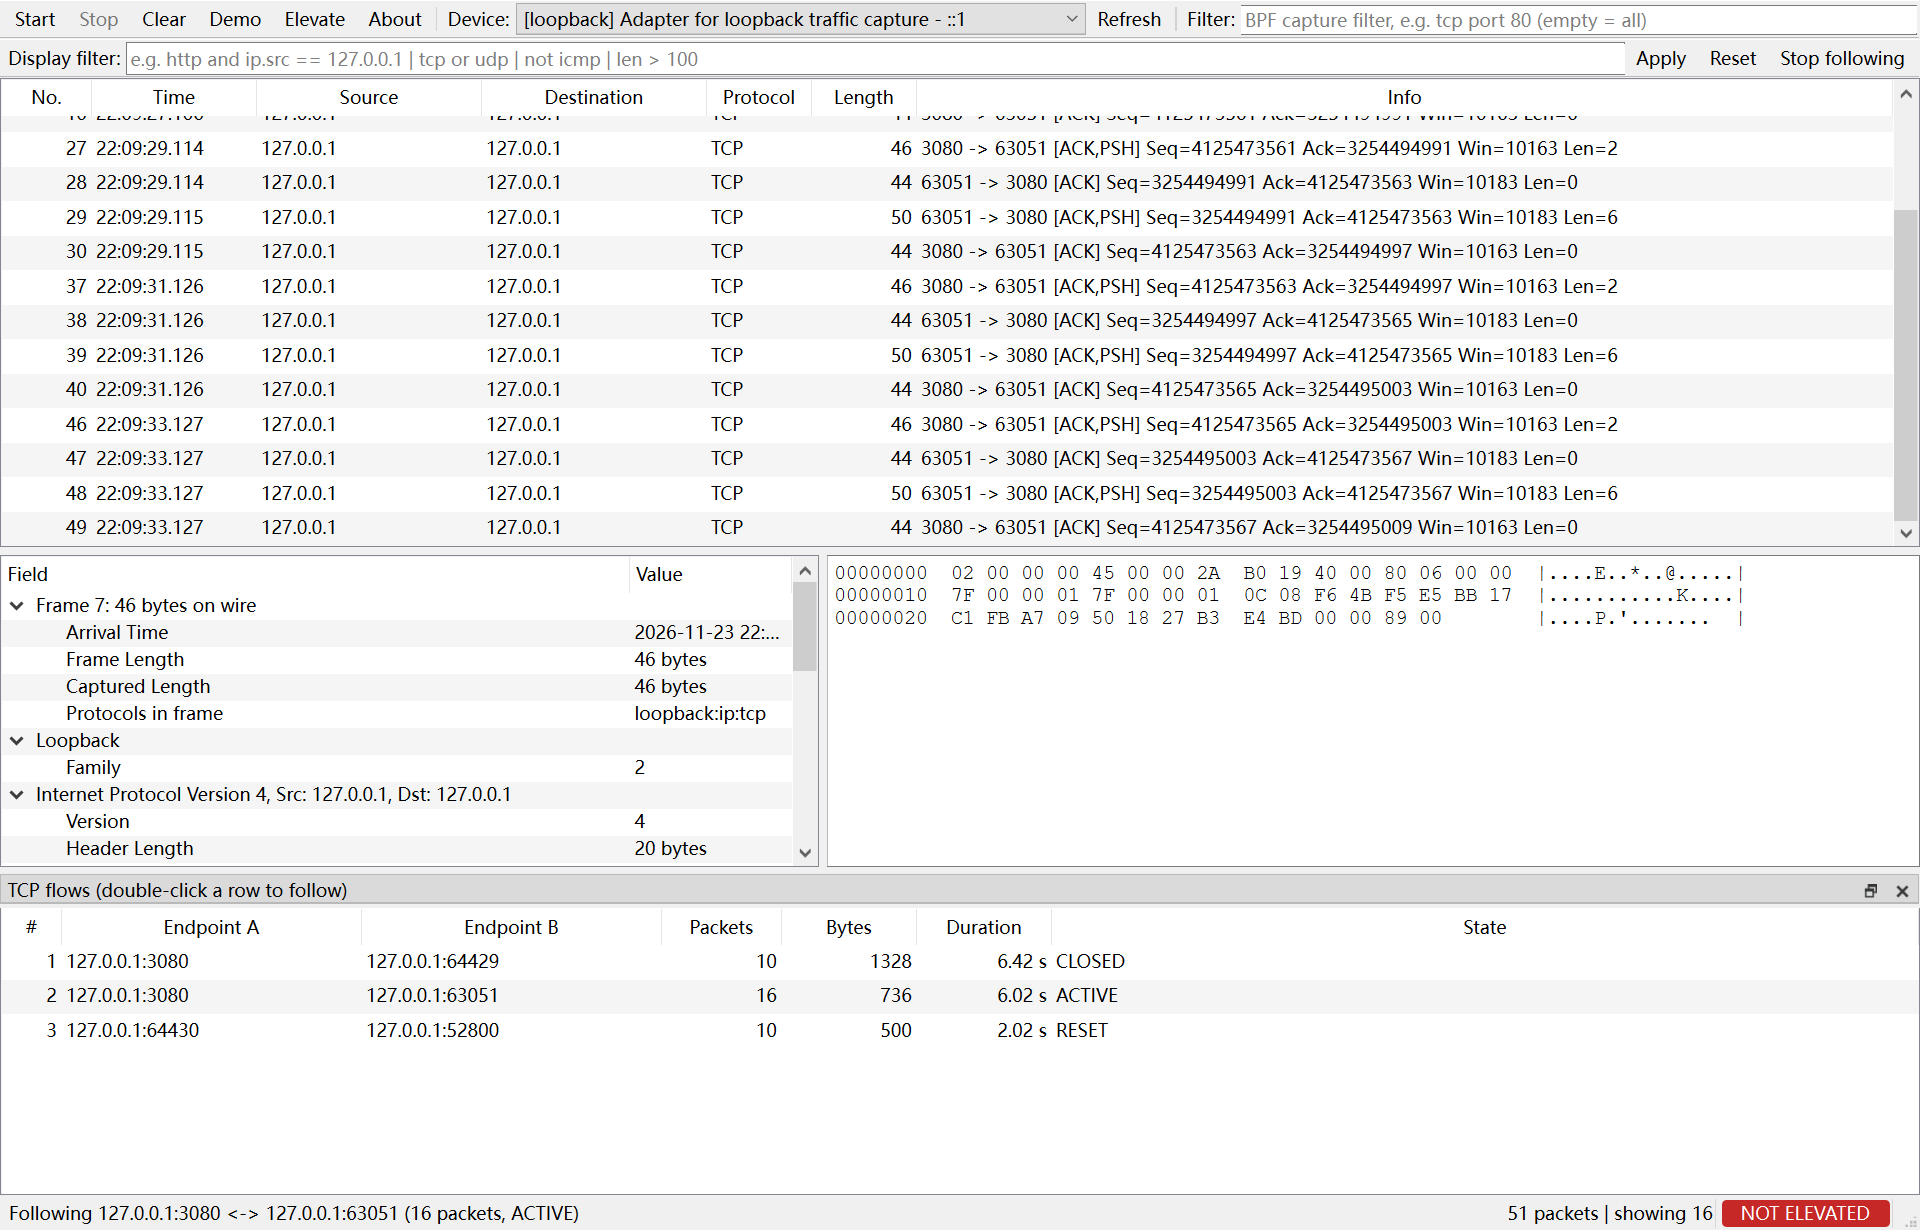
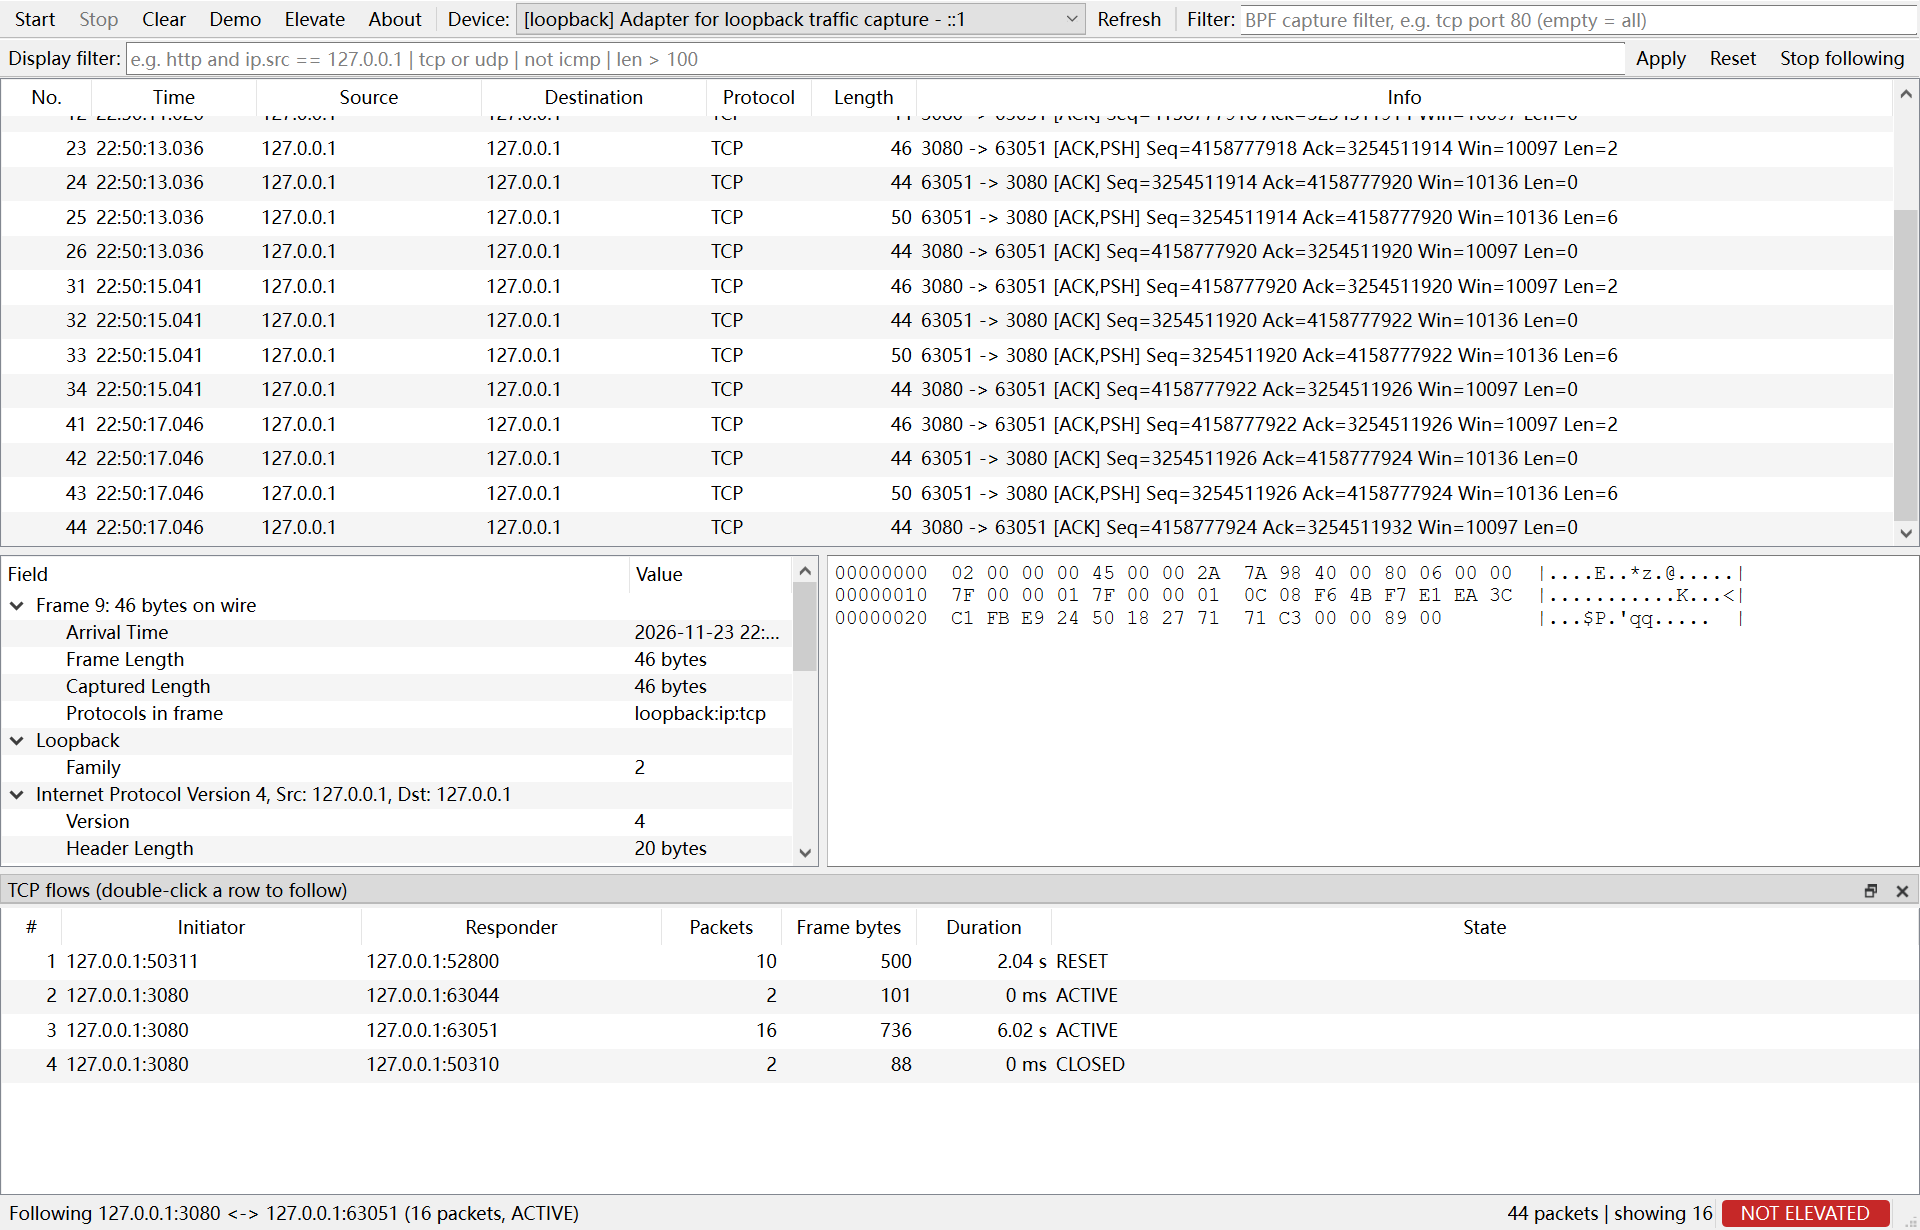
fix(flow): address review findings (stale filter, naming, key, reuse)
- loadDemoPackets() now goes through resetDataset(), which clears the flow
  filter: following a flow and then loading demo data used to leave the table
  empty (240 packets loaded, nothing visible)
- flow dock columns renamed to Initiator / Responder and Bytes to Frame bytes,
  matching what the cells actually show; the key's canonical A/B order is a
  different concept and stays internal
- TcpFlowKey normalises addresses to lower case once, so operator== and qHash
  stay exact; FE80::1 and fe80::1 can no longer split one connection in two
- a SYN without ACK clears sawFin/sawRst/sawSynAck: a reused 4-tuple starts a
  new session instead of being born CLOSED
- FlowTableModel inserts new flows incrementally instead of resetting, so the
  dock selection survives a running capture
- fromRecord() uses isValid(); MainWindow deletes the tracker in its destructor
- capture-test asserts that demo data is visible after following a flow
  (demo_rows/demo_visible) and snapshots capture counters before the swap
- tests: 7 new checks for port reuse, case folding and invalid endpoints

diff --git a/tests/protocol_tests.cpp b/tests/protocol_tests.cpp
@@ -330,6 +330,66 @@ void testMalformedIpv4()
     check(result.sourcePort == 0, QStringLiteral("IPv4 bad total length has no ports"));
 }
 
+void testFlowEdgeCases()
+{
+    auto makeTcp = [](quint64 index, const QString &source, quint16 sourcePort,
+                      const QString &destination, quint16 destinationPort,
+                      quint8 flags, int length) {
+        sss::model::PacketRecord record;
+        record.index = index;
+        record.source = source;
+        record.destination = destination;
+        record.sourcePort = sourcePort;
+        record.destinationPort = destinationPort;
+        record.ipProtocol = 6;
+        record.ipVersion = 4;
+        record.tcpFlags = flags;
+        record.length = length;
+        record.timestamp = QDateTime::currentDateTime();
+        return record;
+    };
+
+    // Port reuse: a new SYN on a closed 4-tuple starts a fresh session.
+    sss::flow::TcpFlowTracker reuse;
+    reuse.observe(makeTcp(1, QStringLiteral("127.0.0.1"), 50000,
+                          QStringLiteral("127.0.0.1"), 3080, 0x02, 60));
+    reuse.observe(makeTcp(2, QStringLiteral("127.0.0.1"), 50000,
+                          QStringLiteral("127.0.0.1"), 3080, 0x11, 60)); // FIN+ACK
+    check(reuse.flows().first().stateText() == QStringLiteral("CLOSED"),
+          QStringLiteral("flow: closed before reuse"));
+
+    reuse.observe(makeTcp(3, QStringLiteral("127.0.0.1"), 50000,
+                          QStringLiteral("127.0.0.1"), 3080, 0x02, 60)); // new SYN
+    check(reuse.flows().first().stateText() == QStringLiteral("SYN SENT"),
+          QStringLiteral("flow: port reuse starts a new session"));
+
+    reuse.observe(makeTcp(4, QStringLiteral("127.0.0.1"), 3080,
+                          QStringLiteral("127.0.0.1"), 50000, 0x12, 60)); // SYN+ACK
+    check(reuse.flows().first().stateText() == QStringLiteral("ESTABLISHED"),
+          QStringLiteral("flow: port reuse re-establishes"));
+
+    // IPv6 addresses may arrive with different case; one flow, not two.
+    sss::flow::TcpFlowTracker caseTracker;
+    caseTracker.observe(makeTcp(1, QStringLiteral("FE80::1"), 1234,
+                                QStringLiteral("FE80::2"), 80, 0x02, 60));
+    caseTracker.observe(makeTcp(2, QStringLiteral("fe80::2"), 80,
+                                QStringLiteral("fe80::1"), 1234, 0x12, 60));
+    check(caseTracker.count() == 1, QStringLiteral("flow: IPv6 key is case insensitive"));
+
+    // Truncated headers and empty addresses must not create flows.
+    sss::flow::TcpFlowTracker truncated;
+    truncated.observe(makeTcp(1, QStringLiteral("10.0.0.1"), 0,
+                              QStringLiteral("10.0.0.2"), 80, 0x02, 40));
+    check(truncated.count() == 0, QStringLiteral("flow: zero source port ignored"));
+
+    truncated.observe(makeTcp(2, QStringLiteral("10.0.0.1"), 1234,
+                              QStringLiteral("10.0.0.2"), 0, 0x02, 40));
+    check(truncated.count() == 0, QStringLiteral("flow: zero destination port ignored"));
+
+    truncated.observe(makeTcp(3, QString(), 1234, QStringLiteral("10.0.0.2"), 80, 0x02, 40));
+    check(truncated.count() == 0, QStringLiteral("flow: empty address ignored"));
+}
+
 void testFlowTracking()
 {
     sss::flow::TcpFlowTracker tracker;
@@ -455,6 +515,7 @@ int main()
     testIpv6Fragment();
     testMalformedIpv4();
     testFlowTracking();
+    testFlowEdgeCases();
     testFilters();
 
     std::printf("checks=%d failures=%d\n", g_checks, g_failures);

diff --git a/src/ui/FlowTableModel.cpp b/src/ui/FlowTableModel.cpp
@@ -1,5 +1,6 @@
 #include "ui/FlowTableModel.h"
 
+#include <algorithm>
 #include <utility>
 
 namespace sss::ui {
@@ -22,10 +23,30 @@ FlowTableModel::FlowTableModel(QObject *parent)
 
 void FlowTableModel::setFlows(QVector<sss::flow::TcpFlow> flows)
 {
-    if (flows.size() == m_flows.size()) {
-        m_flows = std::move(flows);
-        if (!m_flows.isEmpty()) {
-            emit dataChanged(index(0, 0), index(static_cast<int>(m_flows.size()) - 1, ColumnCount - 1));
+    // The tracker only ever appends, so an unchanged prefix means the tail is
+    // new flows: insert them incrementally. A full reset would clear the dock
+    // selection every time a new conversation starts during a capture.
+    const bool samePrefix =
+        flows.size() >= m_flows.size()
+        && std::equal(m_flows.cbegin(), m_flows.cend(), flows.cbegin(),
+                      [](const sss::flow::TcpFlow &left, const sss::flow::TcpFlow &right) {
+                          return left.key == right.key;
+                      });
+
+    if (samePrefix) {
+        const int oldSize = static_cast<int>(m_flows.size());
+        const int newSize = static_cast<int>(flows.size());
+
+        if (newSize > oldSize) {
+            beginInsertRows(QModelIndex(), oldSize, newSize - 1);
+            m_flows = std::move(flows);
+            endInsertRows();
+        } else {
+            m_flows = std::move(flows);
+        }
+
+        if (oldSize > 0) {
+            emit dataChanged(index(0, 0), index(oldSize - 1, ColumnCount - 1));
         }
         return;
     }
@@ -104,10 +125,10 @@ QVariant FlowTableModel::data(const QModelIndex &index, int role) const
             return static_cast<int>(Qt::AlignLeft | Qt::AlignVCenter);
         }
     } else if (role == Qt::ToolTipRole) {
-        return QString("Endpoint A: %1\nEndpoint B: %2\n"
-                       "Endpoint A is the side that sent the first captured packet "
+        return QString("Initiator: %1\nResponder: %2\n"
+                       "The initiator is the side that sent the first captured packet "
                        "(the SYN sender when the handshake was captured).\n"
-                       "packets: %3\nbytes: %4\nstate: %5")
+                       "packets: %3\nframe bytes: %4\nstate: %5")
             .arg(flow.initiatorText(),
                  flow.responderText(),
                  QString::number(flow.packetCount()),
@@ -128,13 +149,13 @@ QVariant FlowTableModel::headerData(int section, Qt::Orientation orientation, in
     case ColumnIndex:
         return QStringLiteral("#");
     case ColumnClient:
-        return QStringLiteral("Endpoint A");
+        return QStringLiteral("Initiator");
     case ColumnServer:
-        return QStringLiteral("Endpoint B");
+        return QStringLiteral("Responder");
     case ColumnPackets:
         return QStringLiteral("Packets");
     case ColumnBytes:
-        return QStringLiteral("Bytes");
+        return QStringLiteral("Frame bytes");
     case ColumnDuration:
         return QStringLiteral("Duration");
     case ColumnState:

diff --git a/src/main.cpp b/src/main.cpp
@@ -142,15 +142,25 @@ int main(int argc, char *argv[])
             const bool followed = window.followLargestFlow();
             const int flows = window.flowCount();
 
+            // Snapshot the capture numbers before demo data replaces them.
+            const int capturedRows = window.packetCount();
+            const int capturedVisible = window.visiblePacketCount();
+            const QString protocols = window.protocolSummary();
+
             const QString pngPath = reportPath + QStringLiteral(".png");
             if (!window.selectFirstPacketWithProtocol(QStringLiteral("HTTP"))) {
                 window.selectFirstPacketWithProtocol(QStringLiteral("TCP"));
             }
             window.grab().save(pngPath, "PNG");
 
+            // Regression check: after following a flow, switching to demo data
+            // must clear the flow filter and show every demo packet.
+            window.loadDemoPackets();
+            const int demoRows = window.packetCount();
+            const int demoVisible = window.visiblePacketCount();
+
             const sss::capture::CaptureStats stats = window.captureStats();
-            const int rows = window.packetCount();
-            const bool ok = (rows > 0);
+            const bool ok = (capturedRows > 0);
 
             writeReport(reportPath,
                         QStringList()
@@ -160,13 +170,15 @@ int main(int argc, char *argv[])
                             << QString("start_error=%1").arg(startError)
                             << QString("enumeration_error=%1").arg(enumerationError)
                             << QString("elevated=%1").arg(sss::capture::CaptureThread::isElevated() ? "yes" : "no")
-                            << QString("rows=%1").arg(rows)
-                            << QString("protocols=%1").arg(window.protocolSummary())
+                            << QString("rows=%1").arg(capturedRows)
+                            << QString("protocols=%1").arg(protocols)
                             << QString("tcp_flows=%1").arg(flows)
                             << QString("followed_largest_flow=%1").arg(followed ? "yes" : "no")
                             << QString("display_filter=%1").arg(displayFilter)
                             << QString("filter_applied=%1").arg(filterApplied ? "yes" : "no")
-                            << QString("visible=%1").arg(window.visiblePacketCount())
+                            << QString("visible=%1").arg(capturedVisible)
+                            << QString("demo_rows=%1").arg(demoRows)
+                            << QString("demo_visible=%1").arg(demoVisible)
                             << QString("received=%1").arg(stats.received)
                             << QString("dropped=%1").arg(stats.dropped)
                             << QString("queue_dropped=%1").arg(stats.queueDropped)

diff --git a/src/flow/TcpFlowTracker.cpp b/src/flow/TcpFlowTracker.cpp
@@ -41,16 +41,22 @@ bool TcpFlowKey::operator==(const TcpFlowKey &other) const
 TcpFlowKey TcpFlowKey::fromEndpoints(const QString &source, quint16 sourcePort,
                                      const QString &destination, quint16 destinationPort)
 {
+    // Addresses are case folded once, here, so that operator== and qHash can
+    // stay exact: two spellings of the same IPv6 address must never end up in
+    // two different flows.
+    const QString first = source.toLower();
+    const QString second = destination.toLower();
+
     TcpFlowKey key;
-    if (endpointLess(source, sourcePort, destination, destinationPort)) {
-        key.addressA = source;
+    if (endpointLess(first, sourcePort, second, destinationPort)) {
+        key.addressA = first;
         key.portA = sourcePort;
-        key.addressB = destination;
+        key.addressB = second;
         key.portB = destinationPort;
     } else {
-        key.addressA = destination;
+        key.addressA = second;
         key.portA = destinationPort;
-        key.addressB = source;
+        key.addressB = first;
         key.portB = sourcePort;
     }
     return key;
@@ -73,6 +79,9 @@ bool TcpFlowKey::fromRecord(const sss::model::PacketRecord &record, TcpFlowKey *
     if (key != nullptr) {
         *key = fromEndpoints(record.source, record.sourcePort,
                              record.destination, record.destinationPort);
+        // Ports and addresses must both be usable; a truncated TCP header has
+        // no ports and must not create a flow.
+        return key->isValid();
     }
     return true;
 }
@@ -174,6 +183,12 @@ bool TcpFlowTracker::observe(const sss::model::PacketRecord &record)
         if (ack) {
             flow.sawSynAck = true;
         } else {
+            // A SYN without ACK starts a new connection. The same 4-tuple can
+            // be reused after TIME_WAIT, so drop the previous session's state;
+            // otherwise the new conversation would be born "CLOSED".
+            flow.sawFin = false;
+            flow.sawRst = false;
+            flow.sawSynAck = false;
             flow.sawSyn = true;
             // The SYN names the client even when we started capturing mid-flow.
             flow.initiatorAddress = record.source;

diff --git a/src/app/MainWindow.cpp b/src/app/MainWindow.cpp
@@ -136,6 +136,27 @@ MainWindow::MainWindow(QWidget *parent)
     }
 }
 
+MainWindow::~MainWindow()
+{
+    // The tracker is a plain object, not a QObject child.
+    delete m_flows;
+}
+
+// Single place that drops the current data set. Every entry point that replaces
+// the packet list must go through it, otherwise a stale flow filter can hide
+// the new packets.
+void MainWindow::resetDataset()
+{
+    m_model->clear();
+    m_details->clear();
+    m_hex->clear();
+    m_flows->reset();
+    m_flowModel->clear();
+    m_proxy->clearFlowFilter();
+    m_flowRefreshTick = 0;
+    updateCounters();
+}
+
 void MainWindow::createCentralWidget()
 {
     m_table = new QTableView(this);
@@ -350,13 +371,7 @@ bool MainWindow::startCapture(const QString &deviceName, const QString &bpfFilte
         return false;
     }
 
-    m_model->clear();
-    m_details->clear();
-    m_hex->clear();
-    m_flows->reset();
-    m_flowModel->clear();
-    m_proxy->clearFlowFilter();
-    updateCounters();
+    resetDataset();
 
     // Keep the device selector in sync when the caller (CLI test) picked a
     // device that is not the one currently shown in the combo box.
@@ -458,13 +473,7 @@ void MainWindow::onClearTriggered()
     if (m_capture->isRunning()) {
         stopCapture();
     }
-    m_model->clear();
-    m_details->clear();
-    m_hex->clear();
-    m_flows->reset();
-    m_flowModel->clear();
-    m_proxy->clearFlowFilter();
-    updateCounters();
+    resetDataset();
     statusBar()->showMessage(QStringLiteral("Cleared"));
 }
 
@@ -479,11 +488,11 @@ void MainWindow::onDemoTriggered()
 
 void MainWindow::loadDemoPackets()
 {
+    // Clears the flow filter as well; otherwise a followed flow from the
+    // previous data set would hide every demo packet.
+    resetDataset();
     m_model->setPackets(sss::model::makeSamplePackets());
-    m_details->clear();
-    m_hex->clear();
 
-    m_flows->reset();
     for (int row = 0; row < m_model->rowCount(); ++row) {
         const sss::model::PacketRecord *record = m_model->packetAt(row);
         if (record != nullptr) {

diff --git a/src/app/MainWindow.h b/src/app/MainWindow.h
@@ -34,6 +34,7 @@ class MainWindow : public QMainWindow
 
 public:
     explicit MainWindow(QWidget *parent = nullptr);
+    ~MainWindow() override;
 
     // Same code path the toolbar uses; also driven by the CLI self tests.
     bool startCapture(const QString &deviceName, const QString &bpfFilter, QString *error);
@@ -46,6 +47,9 @@ public:
     bool applyDisplayFilter(const QString &text);
     bool setDisplayFilter(const QString &text);
     int visiblePacketCount() const;
+
+    // Also used by the CLI regression check: load demo data after a capture.
+    void loadDemoPackets();
 
     int packetCount() const;
     int detailTopLevelCount() const;
@@ -85,8 +89,8 @@ private:
     void createStatusBar();
     void createFlowDock();
     void refreshFlows();
+    void resetDataset();
     void loadDevices();
-    void loadDemoPackets();
     void showPacketDetail(const sss::model::PacketRecord &record);
     void showPacketHex(const sss::model::PacketRecord &record);
     void updateCounters();
